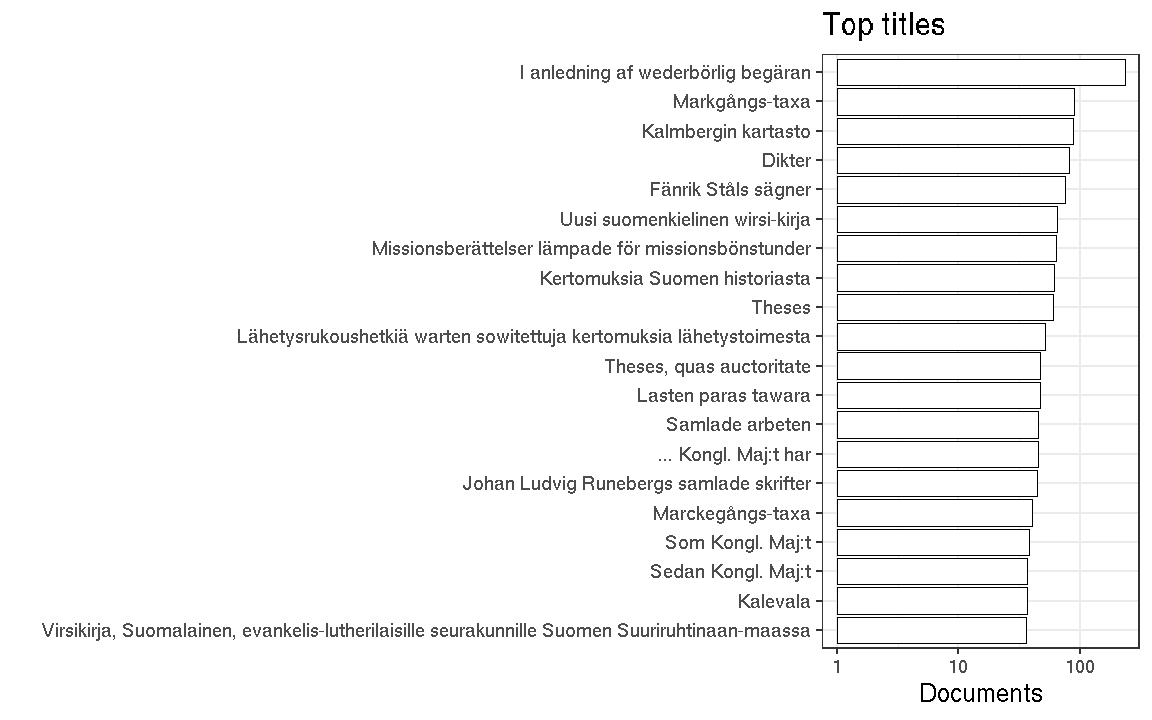
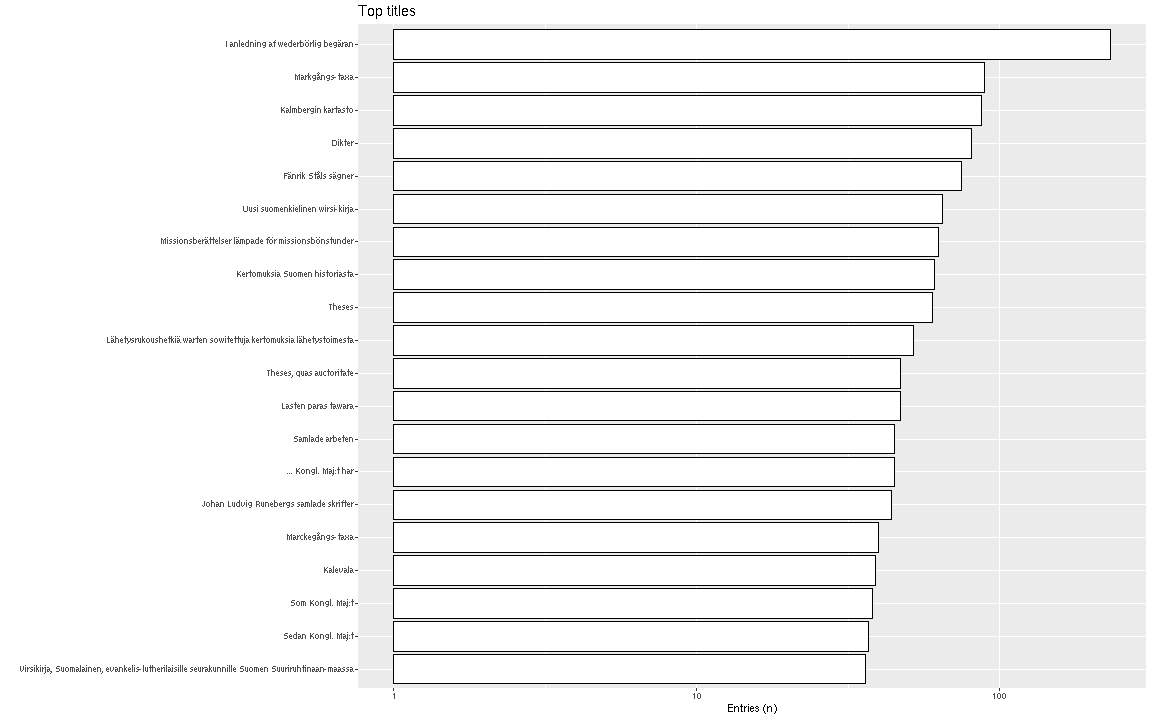
ok

diff --git a/inst/examples/title.md b/inst/examples/title.md
@@ -14,12 +14,5 @@ output: markdown_document
 
 Top-20 titles are shown together with the number of documents.
 
-
-```
-## Error in scale_y_log10(): could not find function "scale_y_log10"
-```
-
-```
-## Error in print(p): object 'p' not found
-```
+![plot of chunk summarytitle](figure/summarytitle-1.png)
 
